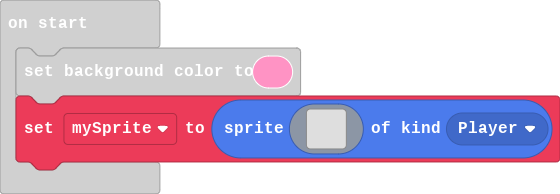
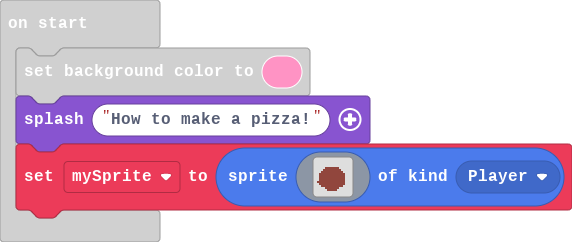
start

diff --git a/main.ts b/main.ts
@@ -1,19 +1,20 @@
 scene.setBackgroundColor(3)
+game.splash("How to make a pizza!")
 let mySprite = sprites.create(img`
     . . . . . . . . . . . . . . . . 
     . . . . . . . . . . . . . . . . 
     . . . . . . . . . . . . . . . . 
-    . . . . . . . . . . . . . . . . 
-    . . . . . . . . . . . . . . . . 
-    . . . . . . . . . . . . . . . . 
-    . . . . . . . . . . . . . . . . 
-    . . . . . . . . . . . . . . . . 
-    . . . . . . . . . . . . . . . . 
-    . . . . . . . . . . . . . . . . 
-    . . . . . . . . . . . . . . . . 
-    . . . . . . . . . . . . . . . . 
-    . . . . . . . . . . . . . . . . 
-    . . . . . . . . . . . . . . . . 
-    . . . . . . . . . . . . . . . . 
+    . . . . e e e e e e e . . . . . 
+    . . . e e e e e e e e e . . . . 
+    . . e e e e e e e e e e e . . . 
+    . e e e e e e e e e e e e e . . 
+    . e e e e e e e e e e e e e . . 
+    . e e e e e e e e e e e e e . . 
+    . e e e e e e e e e e e e e . . 
+    e e e e e e e e e e e e e e . . 
+    . e e e e e e e e e e e e e . . 
+    . . e e e e e e e e e e e . . . 
+    . . . . e e e e e e e . . . . . 
+    . . . . . e e e e e . . . . . . 
     . . . . . . . . . . . . . . . . 
     `, SpriteKind.Player)
